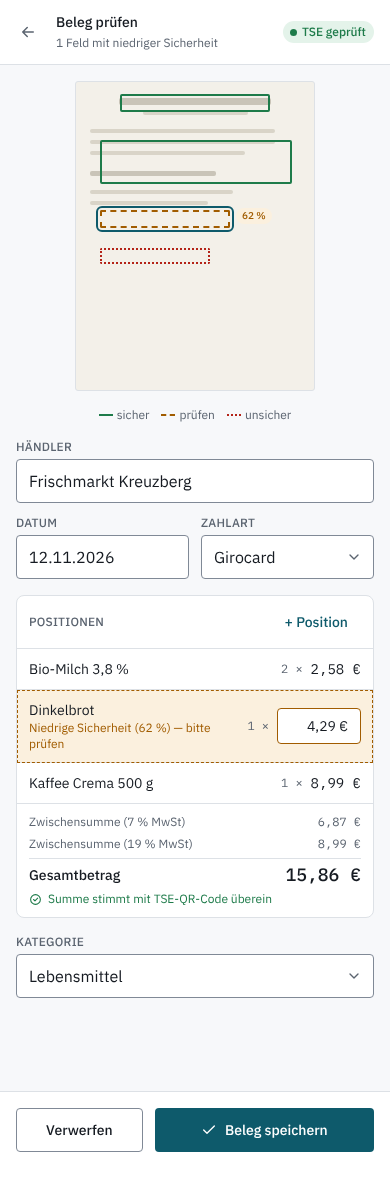
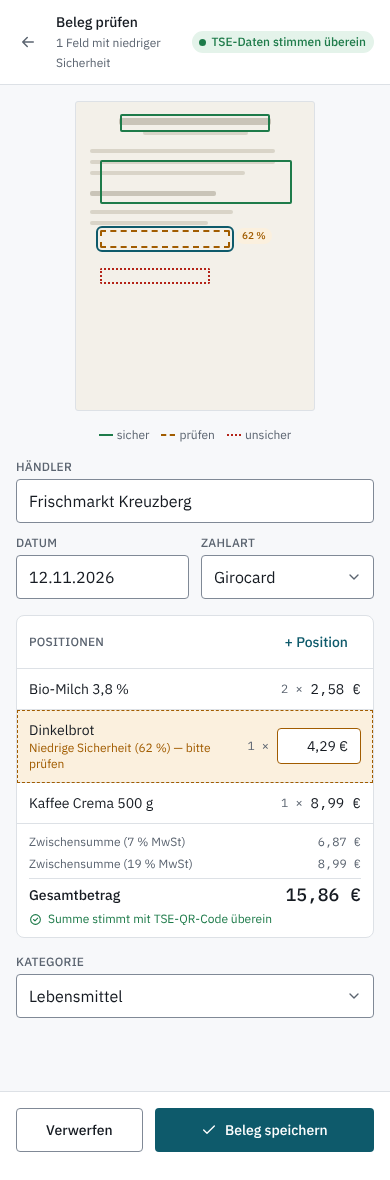
docs(design): align mockups with business decisions
10 screens (HTML + PNG) follow docs/business-processes.md v2:
- SignFlow: Stempel in the field palette; Vorlagen marked "geplant";
  manual "Erinnerung gesendet" in the protocol instead of an automatic
  reminder
- Belegscan: DATEV-Export marked "geplant"; "TSE-Daten stimmen
  überein"; offline banner "wird synchronisiert"; auto-confirm in
  Stapel-Import off by default

Glossary: "Überfällig" is a derived flag (Wartet + due date passed,
computed, not stored), not a status - as in business-processes.md.

diff --git a/docs/design/screens/signflow/Main.html b/docs/design/screens/signflow/Main.html
@@ -14,7 +14,7 @@ a{color:#0e5a6b}a:hover{color:#0b4855}
     <a class="k-sidenav-item" href="#"><svg class="k-ico" viewBox="0 0 24 24" fill="none" stroke="currentColor" stroke-width="2" stroke-linecap="round" stroke-linejoin="round" width="16" height="16" aria-hidden="true"><path d="m22 2-7 20-4-9-9-4z"/><path d="M22 2 11 13"/></svg>Gesendet</a>
     <a class="k-sidenav-item" href="#"><svg class="k-ico" viewBox="0 0 24 24" fill="none" stroke="currentColor" stroke-width="2" stroke-linecap="round" stroke-linejoin="round" width="16" height="16" aria-hidden="true"><circle cx="12" cy="12" r="9"/><path d="M12 7v5l3 2"/></svg>Protokoll</a>
     <div class="k-sidenav-group k-label" style="text-transform: uppercase">Verwaltung</div>
-    <a class="k-sidenav-item" href="#"><svg class="k-ico" viewBox="0 0 24 24" fill="none" stroke="currentColor" stroke-width="2" stroke-linecap="round" stroke-linejoin="round" width="16" height="16" aria-hidden="true"><path d="M14 2H6a2 2 0 0 0-2 2v16a2 2 0 0 0 2 2h12a2 2 0 0 0 2-2V8z"/><path d="M14 2v6h6"/></svg>Vorlagen</a>
+    <a class="k-sidenav-item" href="#"><svg class="k-ico" viewBox="0 0 24 24" fill="none" stroke="currentColor" stroke-width="2" stroke-linecap="round" stroke-linejoin="round" width="16" height="16" aria-hidden="true"><path d="M14 2H6a2 2 0 0 0-2 2v16a2 2 0 0 0 2 2h12a2 2 0 0 0 2-2V8z"/><path d="M14 2v6h6"/></svg>Vorlagen <span class="k-badge" style="margin-left: auto">geplant</span></a>
     <a class="k-sidenav-item" href="#"><svg class="k-ico" viewBox="0 0 24 24" fill="none" stroke="currentColor" stroke-width="2" stroke-linecap="round" stroke-linejoin="round" width="16" height="16" aria-hidden="true"><circle cx="12" cy="12" r="3"/><path d="M19 12a7 7 0 0 0-.1-1.2l2-1.6-2-3.4-2.4 1a7 7 0 0 0-2-1.2L14 3h-4l-.5 2.6a7 7 0 0 0-2 1.2l-2.4-1-2 3.4 2 1.6A7 7 0 0 0 5 12c0 .4 0 .8.1 1.2l-2 1.6 2 3.4 2.4-1a7 7 0 0 0 2 1.2L10 21h4l.5-2.6a7 7 0 0 0 2-1.2l2.4 1 2-3.4-2-1.6c.1-.4.1-.8.1-1.2z"/></svg>Einstellungen</a>
     <div style="flex: 1"></div>
     <div style="display: flex; align-items: center; gap: 8px; padding: 12px; border-top: 1px solid var(--border-subtle)">

diff --git a/docs/design/screens/signflow/Vorbereitung.html b/docs/design/screens/signflow/Vorbereitung.html
@@ -103,6 +103,7 @@ a{color:#0e5a6b}a:hover{color:#0b4855}
           <button class="k-btn k-btn--secondary" style="justify-content: flex-start; cursor: grab"><svg class="k-ico" viewBox="0 0 24 24" fill="none" stroke="currentColor" stroke-width="2" stroke-linecap="round" width="16" height="16" aria-hidden="true"><rect x="3" y="4" width="18" height="17" rx="2"/><path d="M8 2v4M16 2v4M3 9h18"/></svg>Datum</button>
           <button class="k-btn k-btn--secondary" style="justify-content: flex-start; cursor: grab"><svg class="k-ico" viewBox="0 0 24 24" fill="none" stroke="currentColor" stroke-width="2" stroke-linecap="round" width="16" height="16" aria-hidden="true"><circle cx="12" cy="8" r="4"/><path d="M4 21c0-4 4-6 8-6s8 2 8 6"/></svg>Name</button>
           <button class="k-btn k-btn--secondary" style="justify-content: flex-start; cursor: grab"><svg class="k-ico" viewBox="0 0 24 24" fill="none" stroke="currentColor" stroke-width="2" stroke-linecap="round" width="16" height="16" aria-hidden="true"><path d="M4 7h16M4 12h10M4 17h7"/></svg>Initialen</button>
+          <button class="k-btn k-btn--secondary" style="justify-content: flex-start; cursor: grab"><svg class="k-ico" viewBox="0 0 24 24" fill="none" stroke="currentColor" stroke-width="2" stroke-linecap="round" width="16" height="16" aria-hidden="true"><path d="M9 3h6v5l3 4H6l3-4z"/><path d="M5 16h14v4H5z"/></svg>Stempel</button>
         </div>
         <div class="k-toast" role="status" style="margin-top: 16px; width: auto">
           <svg class="k-ico" viewBox="0 0 24 24" fill="none" stroke="currentColor" stroke-width="2" stroke-linecap="round" width="18" height="18" aria-hidden="true"><circle cx="12" cy="12" r="9"/><path d="M12 8h.01M11 12h1v4h1"/></svg>

diff --git a/docs/design/screens/signflow/Dokumente.html b/docs/design/screens/signflow/Dokumente.html
@@ -14,7 +14,7 @@ a{color:#0e5a6b}a:hover{color:#0b4855}
     <a class="k-sidenav-item" href="#"><svg class="k-ico" viewBox="0 0 24 24" fill="none" stroke="currentColor" stroke-width="2" stroke-linecap="round" stroke-linejoin="round" width="16" height="16" aria-hidden="true"><path d="m22 2-7 20-4-9-9-4z"/><path d="M22 2 11 13"/></svg>Gesendet</a>
     <a class="k-sidenav-item" href="#"><svg class="k-ico" viewBox="0 0 24 24" fill="none" stroke="currentColor" stroke-width="2" stroke-linecap="round" stroke-linejoin="round" width="16" height="16" aria-hidden="true"><circle cx="12" cy="12" r="9"/><path d="M12 7v5l3 2"/></svg>Protokoll</a>
     <div class="k-sidenav-group k-label" style="text-transform: uppercase">Verwaltung</div>
-    <a class="k-sidenav-item" href="#"><svg class="k-ico" viewBox="0 0 24 24" fill="none" stroke="currentColor" stroke-width="2" stroke-linecap="round" stroke-linejoin="round" width="16" height="16" aria-hidden="true"><path d="M14 2H6a2 2 0 0 0-2 2v16a2 2 0 0 0 2 2h12a2 2 0 0 0 2-2V8z"/><path d="M14 2v6h6"/></svg>Vorlagen</a>
+    <a class="k-sidenav-item" href="#"><svg class="k-ico" viewBox="0 0 24 24" fill="none" stroke="currentColor" stroke-width="2" stroke-linecap="round" stroke-linejoin="round" width="16" height="16" aria-hidden="true"><path d="M14 2H6a2 2 0 0 0-2 2v16a2 2 0 0 0 2 2h12a2 2 0 0 0 2-2V8z"/><path d="M14 2v6h6"/></svg>Vorlagen <span class="k-badge" style="margin-left: auto">geplant</span></a>
     <div style="flex: 1"></div>
     <div style="display: flex; align-items: center; gap: 8px; padding: 12px; border-top: 1px solid var(--border-subtle)">
       <span class="k-avatar">MB</span>

diff --git a/docs/design/screens/signflow/DocumentsEN.html b/docs/design/screens/signflow/DocumentsEN.html
@@ -14,7 +14,7 @@ a{color:#0e5a6b}a:hover{color:#0b4855}
     <a class="k-sidenav-item" href="#"><svg class="k-ico" viewBox="0 0 24 24" fill="none" stroke="currentColor" stroke-width="2" stroke-linecap="round" stroke-linejoin="round" width="16" height="16" aria-hidden="true"><path d="m22 2-7 20-4-9-9-4z"/><path d="M22 2 11 13"/></svg>Sent</a>
     <a class="k-sidenav-item" href="#"><svg class="k-ico" viewBox="0 0 24 24" fill="none" stroke="currentColor" stroke-width="2" stroke-linecap="round" stroke-linejoin="round" width="16" height="16" aria-hidden="true"><circle cx="12" cy="12" r="9"/><path d="M12 7v5l3 2"/></svg>Audit log</a>
     <div class="k-sidenav-group k-label" style="text-transform: uppercase">Admin</div>
-    <a class="k-sidenav-item" href="#"><svg class="k-ico" viewBox="0 0 24 24" fill="none" stroke="currentColor" stroke-width="2" stroke-linecap="round" stroke-linejoin="round" width="16" height="16" aria-hidden="true"><path d="M14 2H6a2 2 0 0 0-2 2v16a2 2 0 0 0 2 2h12a2 2 0 0 0 2-2V8z"/><path d="M14 2v6h6"/></svg>Templates</a>
+    <a class="k-sidenav-item" href="#"><svg class="k-ico" viewBox="0 0 24 24" fill="none" stroke="currentColor" stroke-width="2" stroke-linecap="round" stroke-linejoin="round" width="16" height="16" aria-hidden="true"><path d="M14 2H6a2 2 0 0 0-2 2v16a2 2 0 0 0 2 2h12a2 2 0 0 0 2-2V8z"/><path d="M14 2v6h6"/></svg>Templates <span class="k-badge" style="margin-left: auto">planned</span></a>
     <div style="flex: 1"></div>
     <div style="display: flex; align-items: center; gap: 8px; padding: 12px; border-top: 1px solid var(--border-subtle)">
       <span class="k-avatar">MB</span>

diff --git a/docs/design/screens/signflow/Details.html b/docs/design/screens/signflow/Details.html
@@ -84,7 +84,7 @@ a{color:#0e5a6b}a:hover{color:#0b4855}
         </tr></thead>
         <tbody>
           <tr><td class="k-num k-caption">12.11.2026 17:42</td><td>Anna Berger</td><td>Dokument geöffnet</td><td><code class="mono-sm" style="color: var(--text-secondary)">193.0.113.24</code></td></tr>
-          <tr><td class="k-num k-caption">11.11.2026 09:15</td><td>System</td><td>Automatische Erinnerung gesendet</td><td><code class="mono-sm" style="color: var(--text-secondary)">—</code></td></tr>
+          <tr><td class="k-num k-caption">11.11.2026 09:15</td><td>Max Beispiel</td><td>Erinnerung gesendet</td><td><code class="mono-sm" style="color: var(--text-secondary)">—</code></td></tr>
           <tr><td class="k-num k-caption">09.11.2026 15:02</td><td>Jonas Becker</td><td><span style="display: inline-flex; align-items: center; gap: 6px"><span class="k-badge k-badge--success">Signiert</span> Feld „Unterschrift“, Seite 2</span></td><td><code class="mono-sm" style="color: var(--text-secondary)">198.51.100.7</code></td></tr>
           <tr><td class="k-num k-caption">09.11.2026 14:58</td><td>Jonas Becker</td><td>Identität per E-Mail-Code bestätigt</td><td><code class="mono-sm" style="color: var(--text-secondary)">198.51.100.7</code></td></tr>
           <tr><td class="k-num k-caption">06.11.2026 08:31</td><td>Anna Berger</td><td>Dokument geöffnet</td><td><code class="mono-sm" style="color: var(--text-secondary)">193.0.113.24</code></td></tr>

diff --git a/docs/design/screens/signflow/DetailsDunkel.html b/docs/design/screens/signflow/DetailsDunkel.html
@@ -83,7 +83,7 @@ a{color:#4fb3c4}a:hover{color:#6fc2d0}
         </tr></thead>
         <tbody>
           <tr><td class="k-num k-caption">12.11.2026 17:42</td><td>Anna Berger</td><td>Dokument geöffnet</td><td><code class="mono-sm" style="color: var(--text-secondary)">193.0.113.24</code></td></tr>
-          <tr><td class="k-num k-caption">11.11.2026 09:15</td><td>System</td><td>Automatische Erinnerung gesendet</td><td><code class="mono-sm" style="color: var(--text-secondary)">—</code></td></tr>
+          <tr><td class="k-num k-caption">11.11.2026 09:15</td><td>Max Beispiel</td><td>Erinnerung gesendet</td><td><code class="mono-sm" style="color: var(--text-secondary)">—</code></td></tr>
           <tr><td class="k-num k-caption">09.11.2026 15:02</td><td>Jonas Becker</td><td><span style="display: inline-flex; align-items: center; gap: 6px"><span class="k-badge k-badge--success">Signiert</span> Feld „Unterschrift“, Seite 2</span></td><td><code class="mono-sm" style="color: var(--text-secondary)">198.51.100.7</code></td></tr>
           <tr><td class="k-num k-caption">09.11.2026 14:58</td><td>Jonas Becker</td><td>Identität per E-Mail-Code bestätigt</td><td><code class="mono-sm" style="color: var(--text-secondary)">198.51.100.7</code></td></tr>
           <tr><td class="k-num k-caption">06.11.2026 08:31</td><td>Anna Berger</td><td>Dokument geöffnet</td><td><code class="mono-sm" style="color: var(--text-secondary)">193.0.113.24</code></td></tr>

diff --git a/docs/design/screens/belegscan/StapelImport.html b/docs/design/screens/belegscan/StapelImport.html
@@ -45,7 +45,7 @@ a{color:#0e5a6b}a:hover{color:#0b4855}
       <section class="k-table-wrap" style="padding: 14px 18px; display: flex; flex-direction: column; gap: 10px">
         <span class="k-label" style="text-transform: uppercase">Optionen</span>
         <label class="k-check"><input type="checkbox" checked>Duplikate automatisch überspringen (gleicher Händler, Datum, Betrag)</label>
-        <label class="k-check"><input type="checkbox" checked>Sicher erkannte Belege ohne Prüfung speichern</label>
+        <label class="k-check"><input type="checkbox">Sicher erkannte Belege ohne Prüfung speichern</label>
         <label class="k-check"><input type="checkbox">Alle in Kategorie <b>Büro &amp; Material</b> einordnen</label>
         <p class="k-caption" style="margin: 2px 0 0; display: flex; align-items: center; gap: 6px">
           <svg viewBox="0 0 24 24" fill="none" stroke="currentColor" stroke-width="2" stroke-linecap="round" width="13" height="13" aria-hidden="true"><circle cx="12" cy="12" r="9"/><path d="M12 8h.01M11 12h1v4h1"/></svg>

diff --git a/docs/design/screens/belegscan/Main.html b/docs/design/screens/belegscan/Main.html
@@ -12,7 +12,7 @@ a{color:#4fb3c4}a:hover{color:#6fc2d0}
 
   <div class="k-toast k-toast--warning" role="status" style="position: absolute; top: 68px; left: 16px; right: 16px; width: auto; z-index: 2">
     <svg class="k-ico" viewBox="0 0 24 24" fill="none" stroke="currentColor" stroke-width="2" stroke-linecap="round" stroke-linejoin="round" width="18" height="18" aria-hidden="true"><path d="M1 1l22 22M9 9a7 7 0 0 0-3.2 1.9M2 6.2A12 12 0 0 1 12 4c3.8 0 7.3 1.7 9.9 4.2M5.5 12.5A7.5 7.5 0 0 1 12 10c1.4 0 2.8.4 4 1.1M8.5 15.5a4 4 0 0 1 5.6-.4M12 19h.01"/></svg>
-    <span class="k-caption" style="color: var(--text-primary)">Offline — der Beleg wird verarbeitet, sobald Verbindung besteht.</span>
+    <span class="k-caption" style="color: var(--text-primary)">Offline — der Beleg wird synchronisiert, sobald Verbindung besteht.</span>
   </div>
 
   <main style="flex: 1; min-height: 0; position: relative; display: flex; align-items: center; justify-content: center" aria-label="Sucher der Kamera">

diff --git a/docs/design/screens/belegscan/EditorMobil.html b/docs/design/screens/belegscan/EditorMobil.html
@@ -7,7 +7,7 @@ a{color:#0e5a6b}a:hover{color:#0b4855}
   <header style="flex: none; display: flex; align-items: center; gap: 8px; padding: 12px 16px; background: var(--bg-surface); border-bottom: 1px solid var(--border-subtle)">
     <button class="k-icon-btn" style="width: 40px; height: 40px; margin-left: -8px" aria-label="Zurück"><svg viewBox="0 0 24 24" fill="none" stroke="currentColor" stroke-width="2" stroke-linecap="round" stroke-linejoin="round" width="18" height="18" aria-hidden="true"><path d="M19 12H5m0 0 6 6m-6-6 6-6"/></svg></button>
     <span style="flex: 1"><span class="body-strong" style="display: block">Beleg prüfen</span><span class="k-caption">1 Feld mit niedriger Sicherheit</span></span>
-    <span class="k-badge k-badge--success">TSE geprüft</span>
+    <span class="k-badge k-badge--success">TSE-Daten stimmen überein</span>
   </header>
 
   <div style="flex: 1; min-height: 0; overflow: hidden; padding: 16px; display: flex; flex-direction: column; gap: 16px">

diff --git a/docs/design/screens/belegscan/Dashboard.html b/docs/design/screens/belegscan/Dashboard.html
@@ -13,7 +13,7 @@ a{color:#0e5a6b}a:hover{color:#0b4855}
     </div>
     <span style="flex: 1"></span>
     <button class="k-btn k-btn--secondary"><svg class="k-ico" viewBox="0 0 24 24" fill="none" stroke="currentColor" stroke-width="2" stroke-linecap="round" stroke-linejoin="round" width="16" height="16" aria-hidden="true"><path d="M12 17V4m0 0 5 5m-5-5-5 5" transform="rotate(180 12 10.5)"/><path d="M4 20h16"/></svg>CSV</button>
-    <button class="k-btn k-btn--secondary">DATEV-Export</button>
+    <button class="k-btn k-btn--secondary" disabled title="Geplant">DATEV-Export (geplant)</button>
   </div>
 
   <div style="display: grid; grid-template-columns: repeat(4, minmax(0, 1fr)); gap: 16px">

diff --git a/docs/glossary.md b/docs/glossary.md
@@ -13,24 +13,24 @@ default UI language and the language of the mockups in `docs/design/screens/`.
 
 ## SignFlow — document signing
 
-| DE                                 | EN                                | RU                                       | Meaning                                                                                    |
-| ---------------------------------- | --------------------------------- | ---------------------------------------- | ------------------------------------------------------------------------------------------ |
-| Umlauf                             | envelope ✓                        | конверт на подпись                       | One or more documents sent to signers in a defined order ("Neuer Umlauf" / "New envelope") |
-| Unterzeichnende                    | signers ✓                         | подписанты                               | People who have to sign the document                                                       |
-| Vertragspartner                    | counterparty ✓                    | контрагент                               | The other party of the contract                                                            |
-| Signaturweg                        | signing route                     | маршрут подписания                       | Order of signers and the state of each signature                                           |
-| Frist                              | due date (Due ✓)                  | срок                                     | Date by which all signatures are expected                                                  |
-| Entwurf                            | draft ✓                           | черновик                                 | Envelope that has not been sent yet                                                        |
-| Wartet                             | waiting ✓                         | ожидает                                  | Status: sent, signatures still missing                                                     |
-| Signiert                           | completed ✓                       | подписан                                 | Status: all signatures collected                                                           |
-| Überfällig                         | overdue ✓                         | просрочен                                | Status: due date has passed                                                                |
-| In Prüfung                         | in review ✓                       | на проверке                              | Status: under internal review                                                              |
-| Erinnern                           | remind ✓                          | напомнить                                | Send a reminder to signers who have not signed                                             |
-| Stornieren                         | void ✓                            | аннулировать                             | Cancel a sent envelope                                                                     |
-| Vorlage                            | template ✓                        | шаблон                                   | Reusable document setup                                                                    |
-| Protokoll                          | audit log ✓                       | журнал аудита                            | Chronological record of every event on a document                                          |
-| Prüfsumme (SHA-256)                | checksum (SHA-256)                | контрольная сумма (SHA-256)              | Hash proving the document was not changed                                                  |
-| Auftragsverarbeitungsvertrag (AVV) | Data Processing Agreement (DPA) ✓ | договор об обработке персональных данных | GDPR contract type, often used as example document                                         |
+| DE                                 | EN                                | RU                                       | Meaning                                                                                                                                      |
+| ---------------------------------- | --------------------------------- | ---------------------------------------- | -------------------------------------------------------------------------------------------------------------------------------------------- |
+| Umlauf                             | envelope ✓                        | конверт на подпись                       | One or more documents sent to signers in a defined order ("Neuer Umlauf" / "New envelope")                                                   |
+| Unterzeichnende                    | signers ✓                         | подписанты                               | People who have to sign the document                                                                                                         |
+| Vertragspartner                    | counterparty ✓                    | контрагент                               | The other party of the contract                                                                                                              |
+| Signaturweg                        | signing route                     | маршрут подписания                       | Order of signers and the state of each signature                                                                                             |
+| Frist                              | due date (Due ✓)                  | срок                                     | Date by which all signatures are expected                                                                                                    |
+| Entwurf                            | draft ✓                           | черновик                                 | Envelope that has not been sent yet                                                                                                          |
+| Wartet                             | waiting ✓                         | ожидает                                  | Status: sent, signatures still missing                                                                                                       |
+| Signiert                           | completed ✓                       | подписан                                 | Status: all signatures collected                                                                                                             |
+| Überfällig                         | overdue ✓                         | просрочен                                | Not a status but a derived flag: Wartet + due date passed; computed, not stored; gone after the due date is extended (business-processes.md) |
+| In Prüfung                         | in review ✓                       | на проверке                              | Status: under internal review                                                                                                                |
+| Erinnern                           | remind ✓                          | напомнить                                | Send a reminder to signers who have not signed                                                                                               |
+| Stornieren                         | void ✓                            | аннулировать                             | Cancel a sent envelope                                                                                                                       |
+| Vorlage                            | template ✓                        | шаблон                                   | Reusable document setup                                                                                                                      |
+| Protokoll                          | audit log ✓                       | журнал аудита                            | Chronological record of every event on a document                                                                                            |
+| Prüfsumme (SHA-256)                | checksum (SHA-256)                | контрольная сумма (SHA-256)              | Hash proving the document was not changed                                                                                                    |
+| Auftragsverarbeitungsvertrag (AVV) | Data Processing Agreement (DPA) ✓ | договор об обработке персональных данных | GDPR contract type, often used as example document                                                                                           |
 
 ## Belegscan — receipt recognition
 
